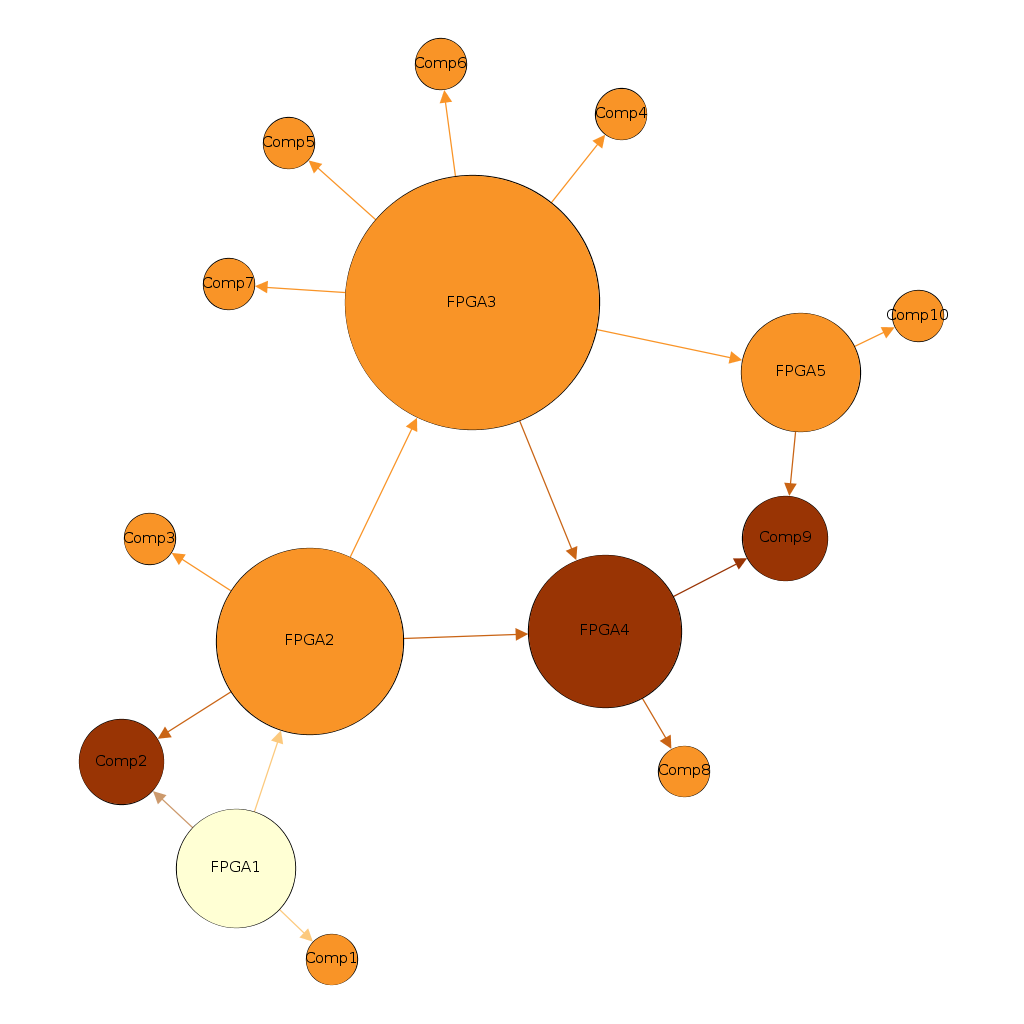
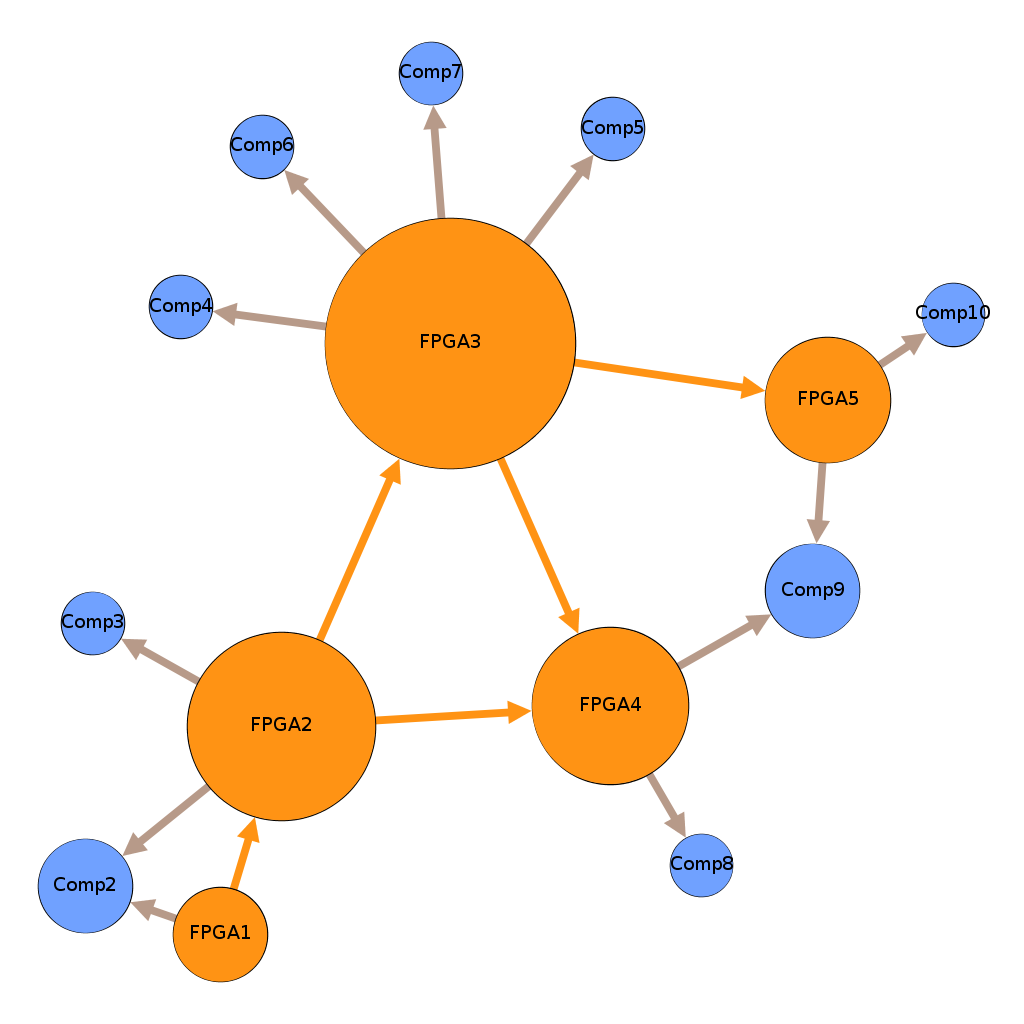
Updating case study 2 output due to changes with graph generation.

Changed region(s): [[0.0312, 0.0312, 0.9688, 0.9688], [0.125, 0.5, 0.1875, 0.5625], [0.4062, 0.2812, 0.4688, 0.3438]]

diff --git a/examples/case_study/case_study_2.py b/examples/case_study/case_study_2.py
@@ -7,11 +7,11 @@ oSystem = de.system.create('Top level system')
 oCca = oSystem.add_component(de.hw.cca.create('CCA'))
 
 
-oFpga1 = oCca.add_component(de.component.create('FPGA1', 'FPGA1'))
-oFpga2 = oCca.add_component(de.component.create('FPGA2', 'FPGA2'))
-oFpga3 = oCca.add_component(de.component.create('FPGA3', 'FPGA3'))
-oFpga4 = oCca.add_component(de.component.create('FPGA4', 'FPGA4'))
-oFpga5 = oCca.add_component(de.component.create('FPGA5', 'FPGA5'))
+oFpga1 = oCca.add_component(de.hw.fpga.create('FPGA1', 'FPGA1'))
+oFpga2 = oCca.add_component(de.hw.fpga.create('FPGA2', 'FPGA2'))
+oFpga3 = oCca.add_component(de.hw.fpga.create('FPGA3', 'FPGA3'))
+oFpga4 = oCca.add_component(de.hw.fpga.create('FPGA4', 'FPGA4'))
+oFpga5 = oCca.add_component(de.hw.fpga.create('FPGA5', 'FPGA5'))
 
 oComp1  = oCca.add_component(de.component.create('Comp1',  'Comp1'))
 oComp2  = oCca.add_component(de.component.create('Comp2',  'Comp2'))
